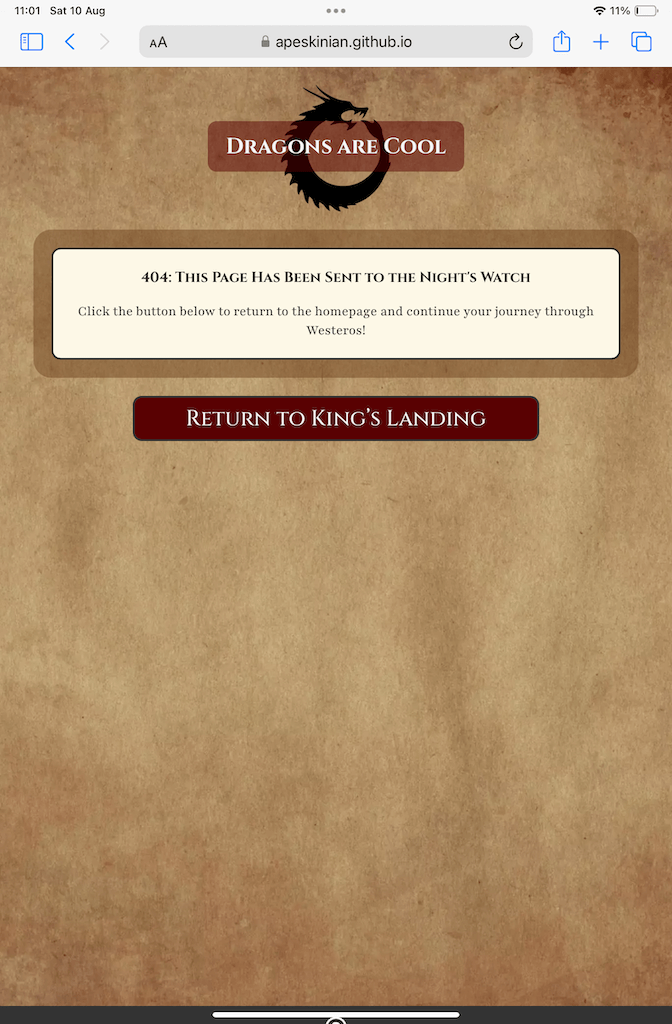
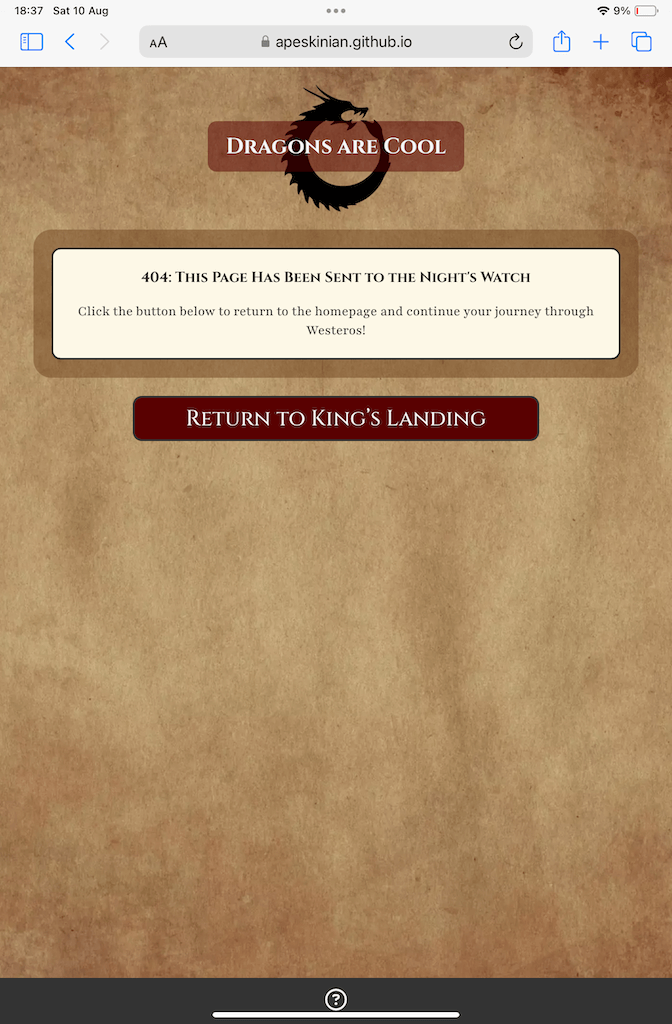
Update TESTING.md with: Bugs

diff --git a/TESTING.md b/TESTING.md
@@ -124,6 +124,8 @@ Defensive programming was manually tested with the below user acceptance testing
 | ![screenshot](documentation/bugs/dac_bug_progress_error.png) | ![screenshot](documentation/bugs/dac_bugs_progress_error_fix.png) |
 | When playing on mobile devices if you start to tap faster through the game sometimes it activates the double tap to zoom function. I found this hindered the free flow of playing | By adding a class of no-double-tap-zoom to all buttons and then using the CSS "touch-action: manipulation;" this disabled double tapping to zoom while still keeping other gestures useable. |
 | ![screenshot](documentation/bugs/dac_bugs_zoom.png) | ![screenshot](documentation/bugs/dac_bugs_zoom_fix.png) |
+| When viewing the site on iOS mobile devices and mobile Chrome the 100vh setting for the body would not work properly and the page would not fit on the screen as it does in the devtools | Using dynamic viewport height fixed this, the body min-height is set to 100dvh instead of 100vh |
+| ![screenshot](documentation/bugs/dac_bugs_mobile_100vh.png) | ![screenshot](documentation/bugs/dac_bugs_mobile_100vh_fix.png) |
 
 ## Unfixed Bugs
 
